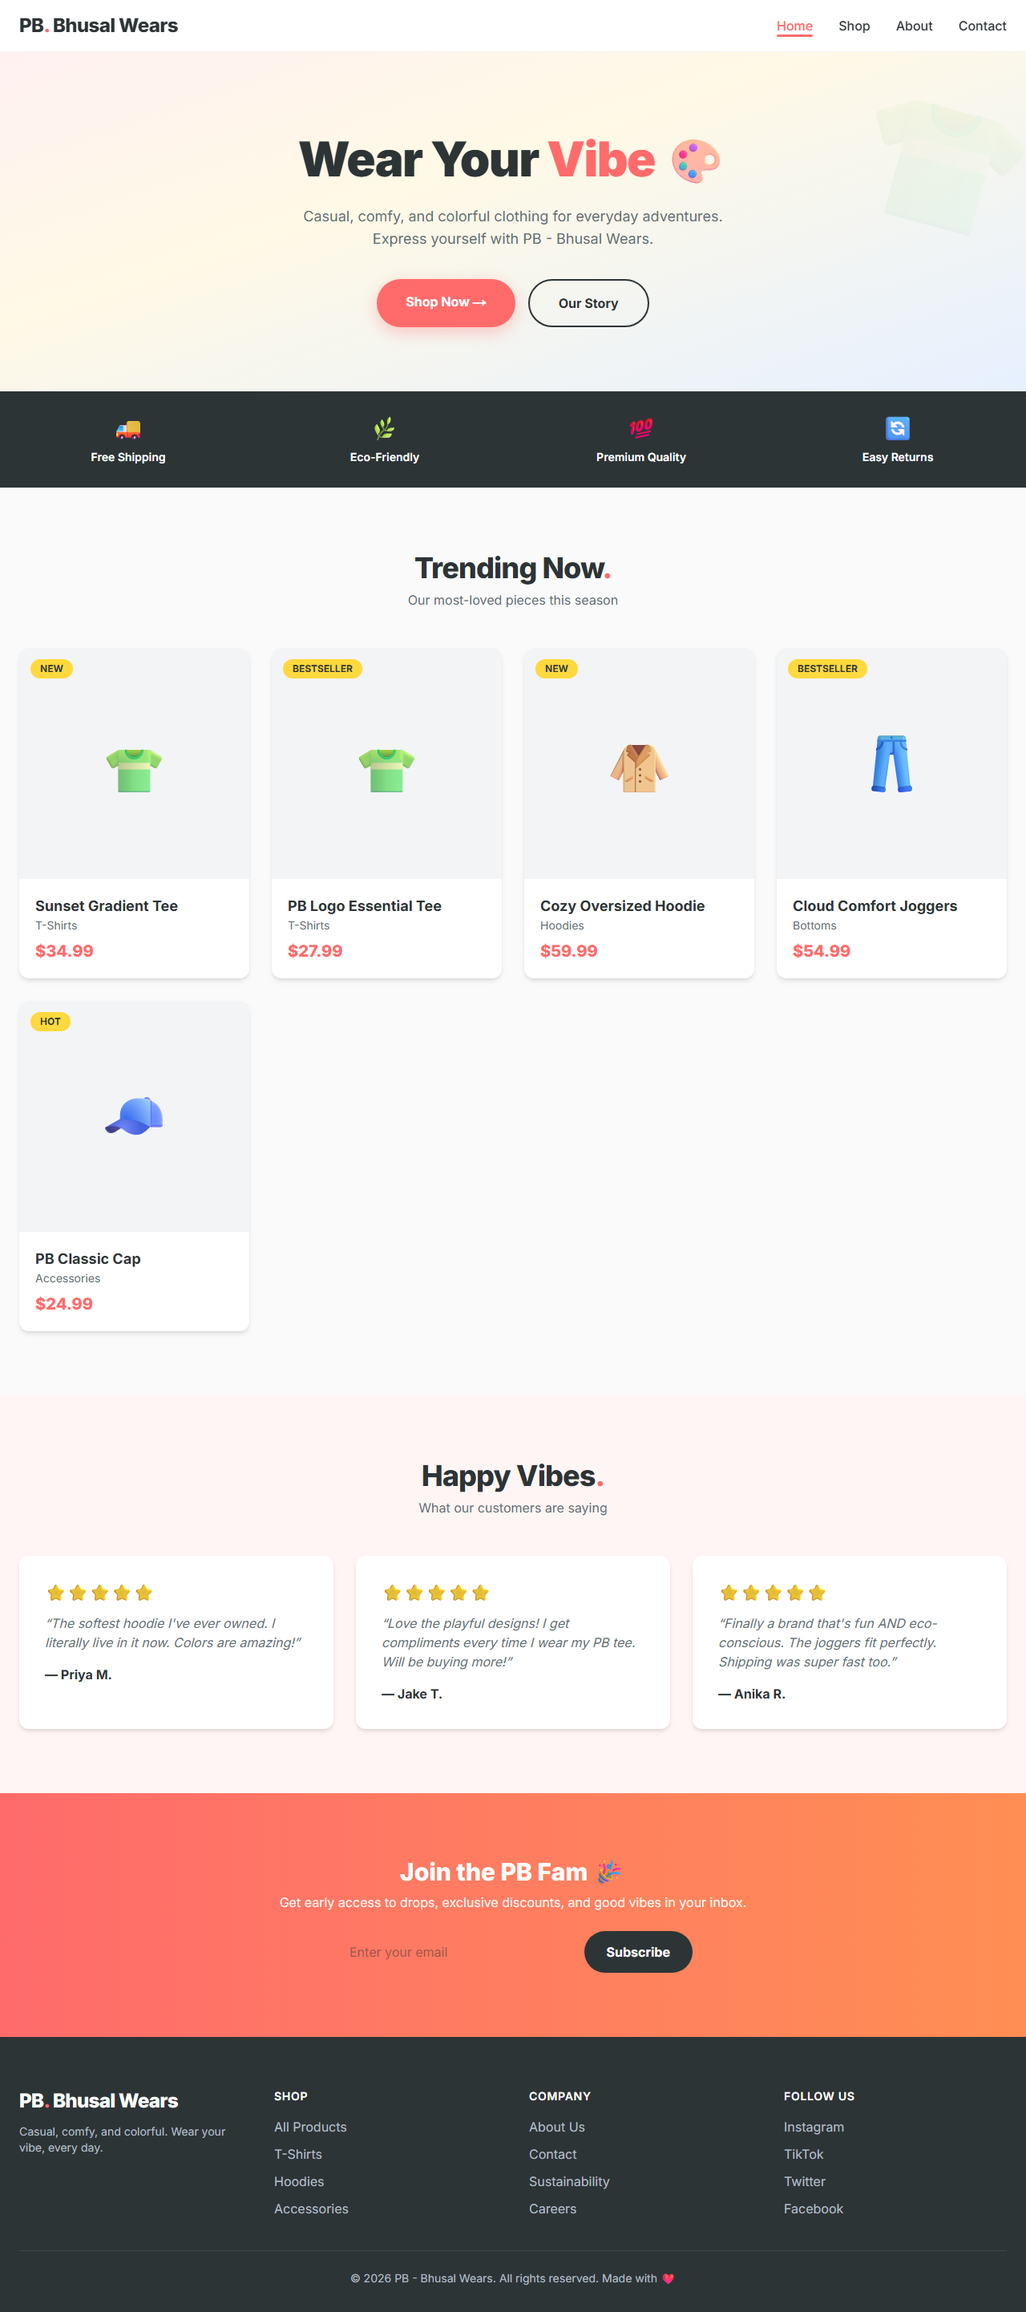
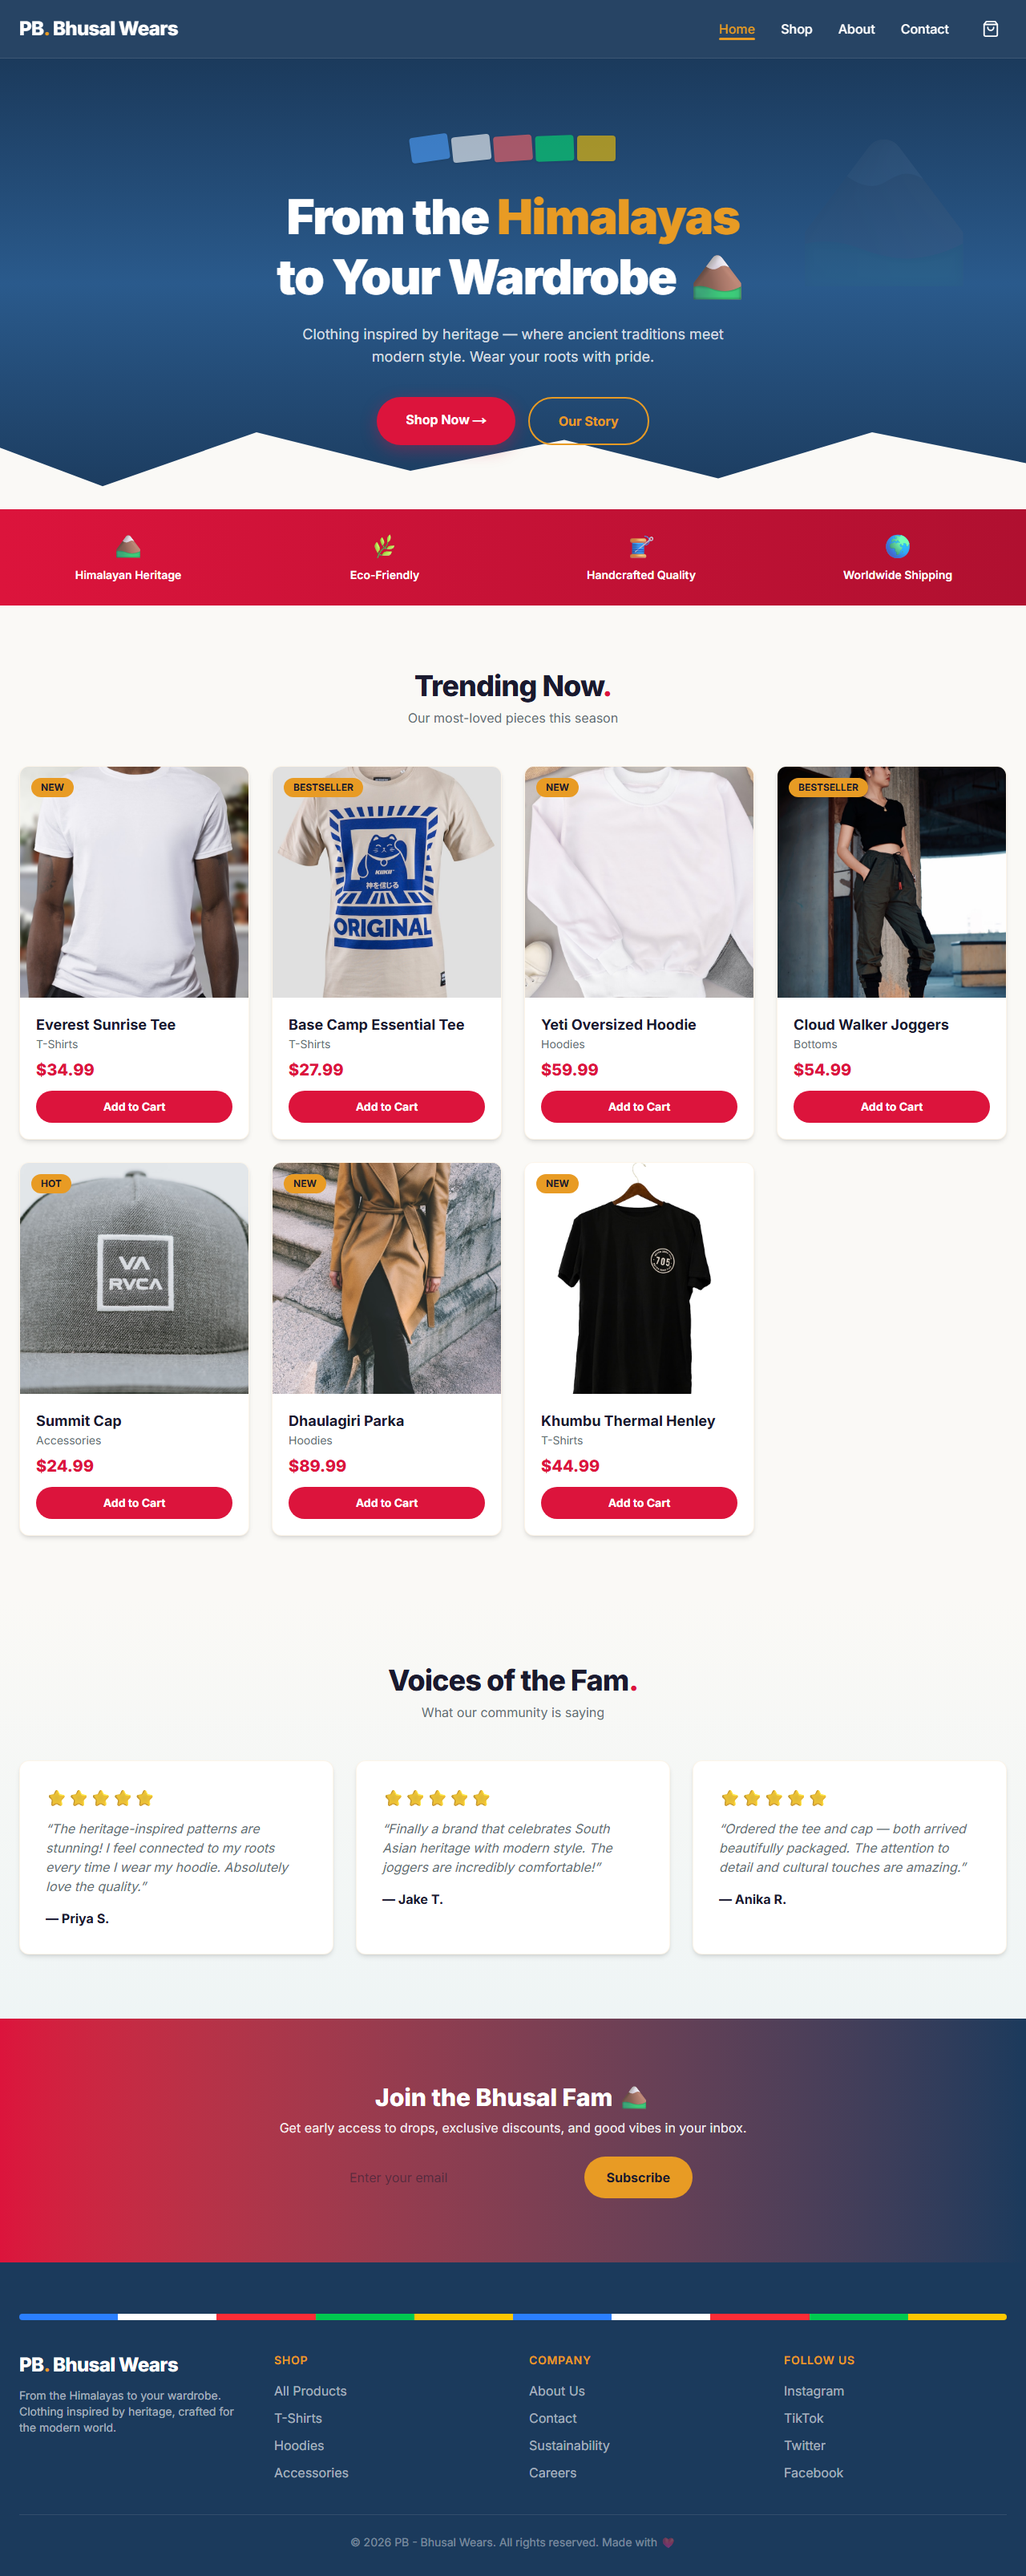
Update README with fresh screenshots and full documentation
- 7 screenshots: Home, Shop, Product Detail, Cart, About, Contact, Mobile
- Full product catalog listing (16 Himalayan-themed products)
- Updated project structure with cart, context, and product detail pages
- Shopping cart feature documentation
- Step-by-step deployment guides (GitHub Pages, Vercel, self-hosted)
- Customization guide with how to add new products

diff --git a/README.md b/README.md
@@ -1,11 +1,12 @@
-# PB. Bhusal Wears 🎨👕
+# PB. Bhusal Wears 🏔
 
-A casual, colorful, and fun clothing company website built with **Next.js**, **React**, **TypeScript**, and **Tailwind CSS**. Full-stack ready architecture with component-based design, product data layer, and automated deployment.
+A heritage-inspired clothing brand website built with **Next.js 16**, **React 19**, **TypeScript**, and **Tailwind CSS 4**. Features a full shopping experience with product catalog, detail pages, shopping cart, and automated deployment.
 
-![License](https://img.shields.io/badge/license-MIT-coral)
+![License](https://img.shields.io/badge/license-MIT-DC143C)
 ![Deploy](https://img.shields.io/github/actions/workflow/status/pratikbhusal18/pb-bhusal-wears/deploy.yml?label=deploy)
 ![Next.js](https://img.shields.io/badge/Next.js-16-black)
 ![Tailwind](https://img.shields.io/badge/Tailwind_CSS-4-06B6D4)
+![Products](https://img.shields.io/badge/products-16-E89B24)
 
 🌐 **Live Site:** [pratikbhusal18.github.io/pb-bhusal-wears](https://pratikbhusal18.github.io/pb-bhusal-wears/)
 
@@ -14,14 +15,24 @@ A casual, colorful, and fun clothing company website built with **Next.js**, **R
 ## Screenshots
 
 ### 🏠 Home Page
-Hero banner with gradient background, featured products, customer testimonials, and newsletter signup.
+Mountain-themed hero with prayer flag decorations, featured products, testimonials, and newsletter signup.
 
 ![Home Page](public/screenshots/home.png)
 
 ### 🛍 Shop Page
-Full product catalog with interactive category filters (T-Shirts, Hoodies, Bottoms, Accessories).
+16 products with real photography, interactive category filters, and Add to Cart buttons.
 
 ![Shop Page](public/screenshots/shop.png)
+
+### 📄 Product Detail Page
+Full product view with size/color selectors, quantity picker, and "You Might Also Like" section.
+
+![Product Detail](public/screenshots/product.png)
+
+### 🛒 Shopping Cart
+Cart with product images, quantity controls, order summary, and free shipping calculator.
+
+![Cart](public/screenshots/cart.png)
 
 ### 📖 About Page
 Brand story, company timeline, core values, and team section.
@@ -44,27 +55,39 @@ Fully responsive design with hamburger navigation and stacked layouts.
 
 ## Overview
 
-PB - Bhusal Wears is an e-commerce storefront for a clothing brand that celebrates self-expression through casual, comfortable, and eco-friendly fashion. Built with a modern React architecture, it's designed to scale into a full-stack application with database, shopping cart, and payment integration.
+PB - Bhusal Wears is an e-commerce storefront for a heritage-inspired clothing brand. The Himalayan-themed design features crimson, saffron gold, and deep blue tones with mountain motifs throughout. Built with a modern React architecture, ready to scale into a full-stack application.
 
 ### Pages
 
 | Page | Route | Description |
 |------|-------|-------------|
-| **Home** | `/` | Hero banner, feature strip, trending products, testimonials, newsletter |
-| **Shop** | `/shop` | Product catalog with real-time category filtering |
-| **About** | `/about` | Brand story, timeline, values, team cards |
+| **Home** | `/` | Mountain hero, prayer flags, featured products, testimonials, newsletter |
+| **Shop** | `/shop` | 16 products with category filtering and real photography |
+| **Product Detail** | `/shop/[id]` | Size/color selector, quantity picker, related products |
+| **Cart** | `/cart` | Item management, quantity controls, order summary |
+| **About** | `/about` | Brand story, timeline, values, team |
 | **Contact** | `/contact` | Contact form, business info, FAQ accordion |
+
+### Product Catalog (16 items)
+
+| Category | Products |
+|----------|----------|
+| **T-Shirts** | Everest Sunrise Tee, Sherpa Trail Tee, Base Camp Essential Tee, Khumbu Thermal Henley |
+| **Hoodies** | Annapurna Color Block Hoodie, Yeti Oversized Hoodie, Prayer Flag Zip-Up, Dhaulagiri Parka, Rhododendron Fleece Vest, Ridge Runner Windbreaker |
+| **Bottoms** | Cloud Walker Joggers, Trekker Cargo Shorts |
+| **Accessories** | Summit Cap, Himalayan Beanie, Expedition Tote, Trail Pattern Socks |
 
 ### Features
 
-- 🎨 Casual & fun design with a playful color palette (coral, yellow, teal, sky blue)
-- 📱 Fully responsive — mobile, tablet, and desktop
-- ⚛ React components with TypeScript for type safety
-- 🛍 Product data layer ready for database integration
-- 🎯 Interactive category filtering on Shop page
-- 📬 Newsletter and contact form with state management
-- 🧭 App Router with sticky navbar and active page indicators
-- 🚀 Static export for fast GitHub Pages deployment
+- 🏔 Himalayan-inspired design theme (crimson, saffron, deep blue)
+- 🛒 Full shopping cart with add/remove, quantity controls, order summary
+- 📄 Individual product pages with size & color selectors
+- 🖼 Real product photography (royalty-free from Unsplash)
+- 🏷 Category filtering on Shop page
+- 🚚 Free shipping calculator (orders over $75)
+- 📱 Fully responsive — mobile, tablet, desktop
+- ⚛ React components with TypeScript
+- 🚀 Static export with automated GitHub Pages deployment
 
 ---
 
@@ -75,7 +98,7 @@ PB - Bhusal Wears is an e-commerce storefront for a clothing brand that celebrat
 | **Next.js 16** | React framework with App Router and static export |
 | **React 19** | Component-based UI |
 | **TypeScript** | Type safety |
-| **Tailwind CSS 4** | Utility-first styling |
+| **Tailwind CSS 4** | Utility-first styling with custom Himalayan theme |
 | **GitHub Actions** | CI/CD pipeline |
 | **GitHub Pages** | Hosting |
 
@@ -86,25 +109,35 @@ PB - Bhusal Wears is an e-commerce storefront for a clothing brand that celebrat
 ```
 pb-bhusal-wears/
 ├── .github/workflows/
-│   └── deploy.yml              # GitHub Pages CI/CD
+│   └── deploy.yml                  # GitHub Pages CI/CD
 ├── public/
-│   └── screenshots/            # README screenshots
+│   ├── products/                   # Product photography (16 images)
+│   └── screenshots/                # README screenshots
 ├── src/
 │   ├── app/
-│   │   ├── layout.tsx          # Root layout (Navbar + Footer)
-│   │   ├── page.tsx            # Home page
-│   │   ├── globals.css         # Tailwind + custom theme
-│   │   ├── shop/page.tsx       # Shop page
-│   │   ├── about/page.tsx      # About page
-│   │   └── contact/page.tsx    # Contact page
+│   │   ├── layout.tsx              # Root layout (Navbar + Footer + CartProvider)
+│   │   ├── page.tsx                # Home page
+│   │   ├── globals.css             # Tailwind + Himalayan color theme
+│   │   ├── shop/
+│   │   │   ├── page.tsx            # Shop catalog with filters
+│   │   │   └── [id]/
+│   │   │       ├── page.tsx        # Static params generation
+│   │   │       └── ProductDetailClient.tsx  # Product detail UI
+│   │   ├── cart/page.tsx           # Shopping cart
+│   │   ├── about/page.tsx          # About page
+│   │   └── contact/page.tsx        # Contact & FAQ
 │   ├── components/
-│   │   ├── Navbar.tsx          # Sticky nav with mobile menu
-│   │   ├── Footer.tsx          # Site footer
-│   │   ├── ProductCard.tsx     # Reusable product card
-│   │   └── Newsletter.tsx      # Email signup form
+│   │   ├── Navbar.tsx              # Sticky nav with cart icon
+│   │   ├── Footer.tsx              # Footer with prayer flag strip
+│   │   ├── ProductCard.tsx         # Product card with image & Add to Cart
+│   │   ├── AddToCartButton.tsx     # Animated add to cart button
+│   │   ├── CartIcon.tsx            # Cart icon with item count badge
+│   │   └── Newsletter.tsx          # Email signup form
+│   ├── context/
+│   │   └── CartContext.tsx          # Shopping cart state management
 │   └── data/
-│       └── products.ts         # Product catalog data
-├── next.config.ts              # Next.js config (static export)
+│       └── products.ts             # Product catalog (16 products)
+├── next.config.ts                  # Static export + basePath config
 ├── package.json
 └── README.md
 ```
@@ -258,6 +291,7 @@ npx serve out
 |------|-------|
 | Brand colors | `src/app/globals.css` → `@theme inline` block |
 | Products | `src/data/products.ts` |
+| Product images | `public/products/` (just replace the .jpg files) |
 | Company info | `src/app/about/page.tsx` |
 | Contact details | `src/app/contact/page.tsx` |
 | Navigation links | `src/components/Navbar.tsx` |
@@ -265,17 +299,22 @@ npx serve out
 
 ### Adding a new product
 
-Add an entry to `src/data/products.ts`:
+1. Add a product image to `public/products/your-product.jpg`
+2. Add an entry to `src/data/products.ts`:
 
 ```typescript
 {
-  id: "13",
+  id: "17",
   name: "Your Product Name",
   category: "tshirts",
   categoryLabel: "T-Shirts",
   price: 29.99,
   emoji: "👕",
-  badge: "NEW",
+  image: "/products/your-product.jpg",
+  description: "Your product description.",
+  sizes: ["S", "M", "L", "XL"],
+  colors: ["Color 1", "Color 2"],
+  related: ["1", "2", "3"],
 }
 ```
 
@@ -284,14 +323,13 @@ Add an entry to `src/data/products.ts`:
 ## Roadmap
 
 - [ ] **Prisma + SQLite** — Move products to a database
-- [ ] **Shopping cart** — React context with add/remove/quantity
 - [ ] **Stripe checkout** — Real payment processing
 - [ ] **User auth** — NextAuth.js with login & order history
 - [ ] **Admin dashboard** — Manage products and orders
-- [ ] **Product detail pages** — Individual product views
 - [ ] **Search & filters** — Full-text search, price/size filtering
 - [ ] **Dark mode** — Theme toggle
-- [ ] **Real product images** — Replace emoji placeholders
+- [ ] **Wishlist** — Save favorite products
+- [ ] **Order tracking** — Post-purchase status updates
 
 ---
 
@@ -301,4 +339,4 @@ This project is open source under the [MIT License](LICENSE).
 
 ---
 
-<p align="center">Made with ❤ by <strong>PB - Bhusal Wears</strong></p>
+<p align="center">Made with ❤ by <strong>PB - Bhusal Wears</strong> 🏔</p>
